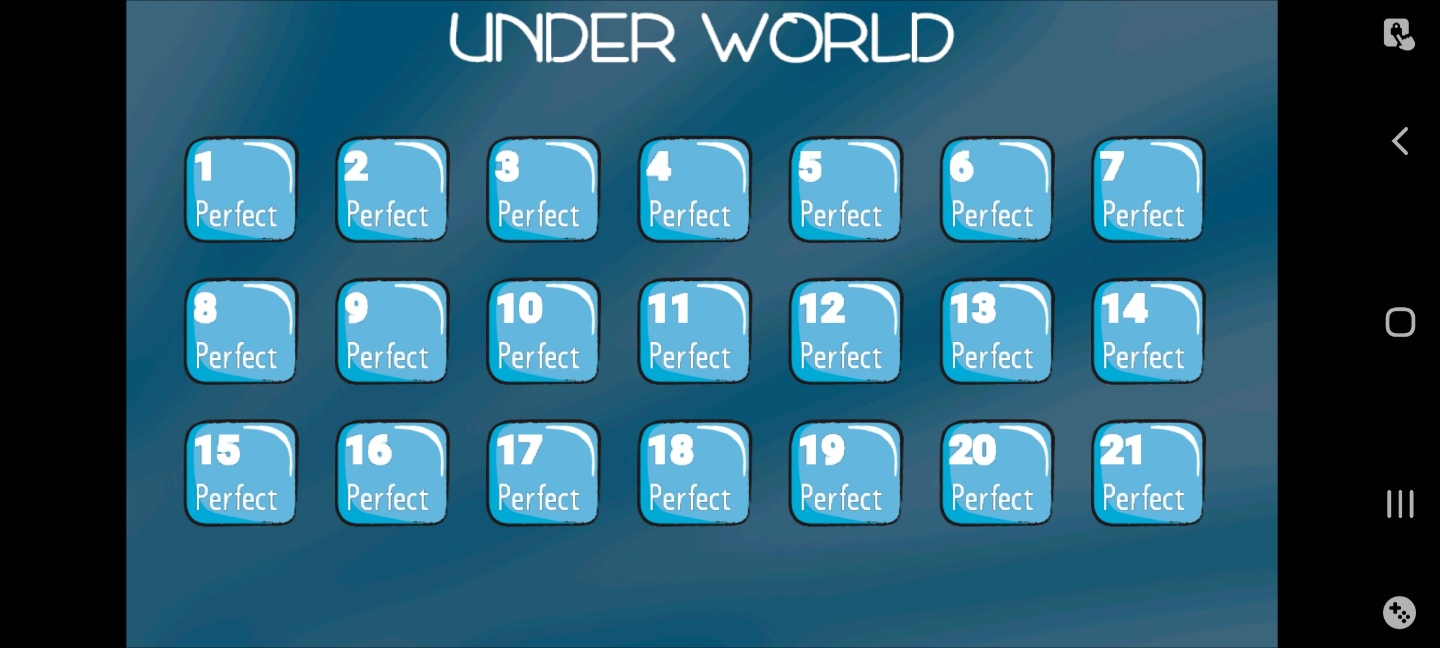
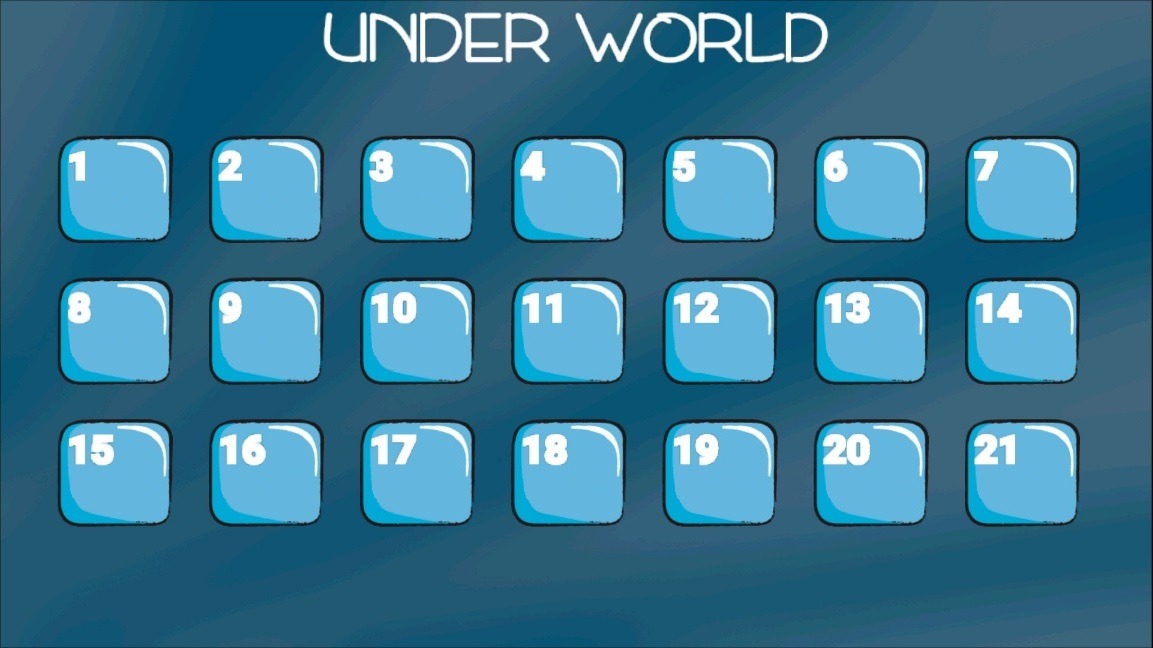
메뉴 화면 구현중

diff --git a/title_state.py b/title_state.py
@@ -2,6 +2,7 @@ from pico2d import *
 
 import game_framework
 import play_state
+import select_state
 
 
 image = True
@@ -56,7 +57,7 @@ def handle_events():
             if 0 < event.x < 109 * 1000 // image.w:
                 if 67 * 600 // image.h < event.y < 99 * 600 // image.h:
                     if event.button == 1:
-                        game_framework.change_state(play_state)
+                        game_framework.change_state(select_state)
                 elif 112 * 600 // image.h < event.y < 142 * 600 // image.h:
                     if event.button == 1:
                         game_framework.quit()

diff --git a/main.py b/main.py
@@ -6,5 +6,5 @@ import title_state
 import play_state
 
 pico2d.open_canvas(1000, 600)
-game_framework.run(title_state)
+game_framework.run(logo_state)
 pico2d.close_canvas()
